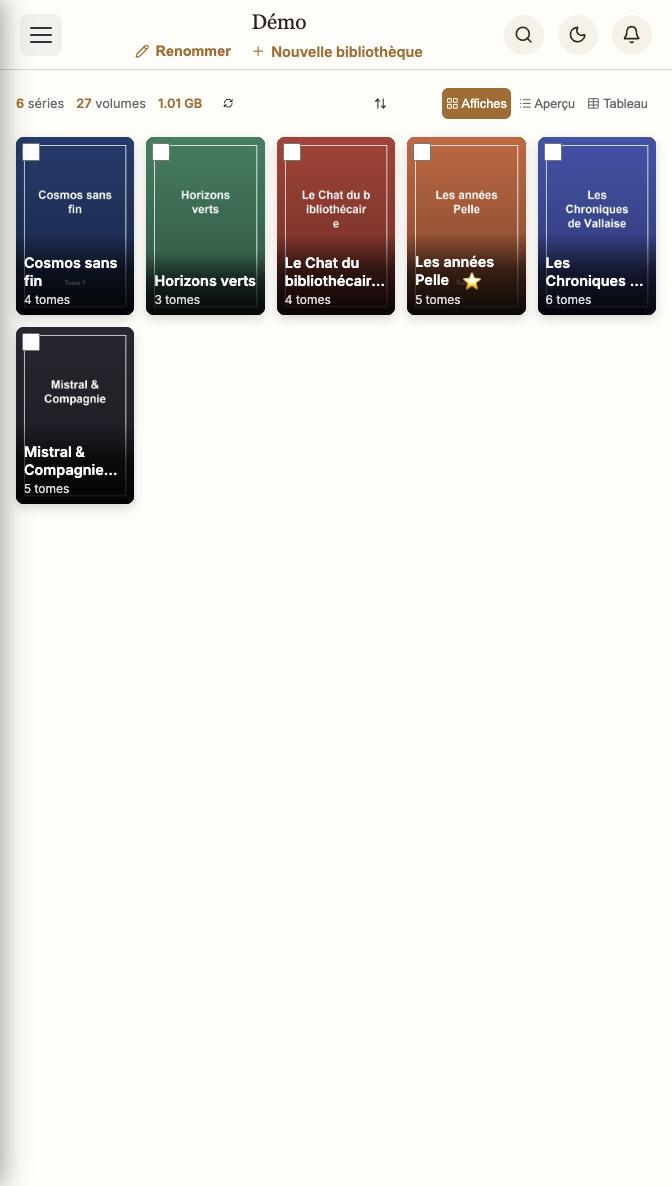
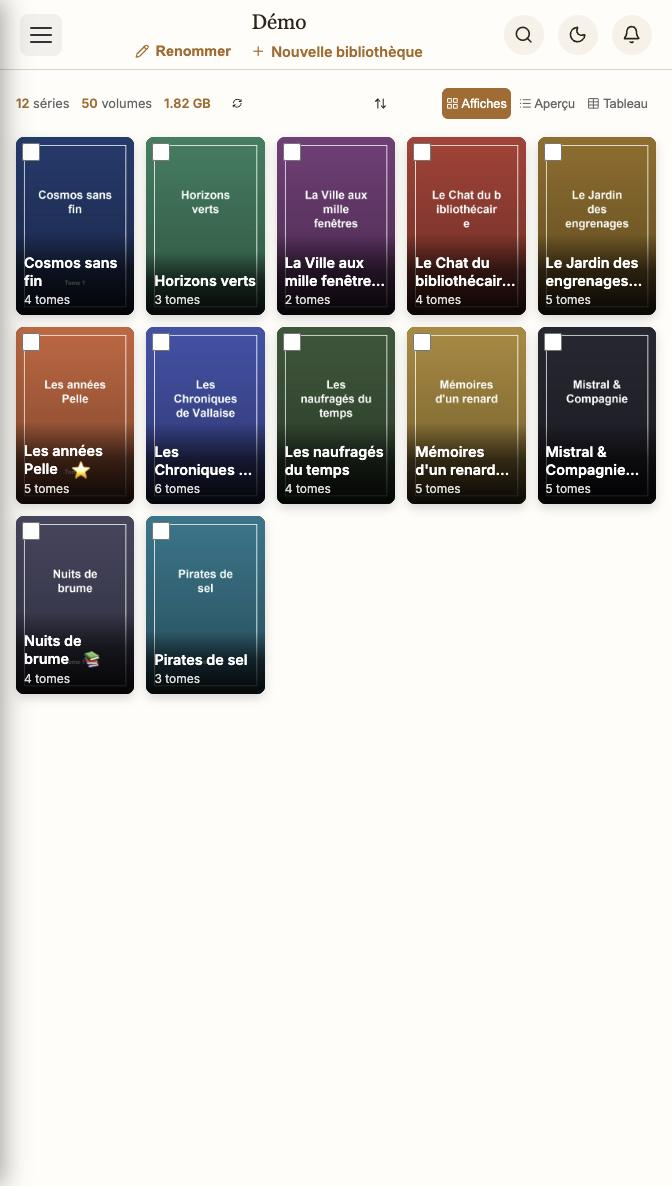
Site : bibliothèque de démonstration à douze séries (couvertures et descriptions inventées)

Changed region(s): [[0.0, 0.0936, 1.0, 0.5927], [0.0312, 0.0624, 0.3125, 0.0936]]

diff --git a/index.html b/index.html
@@ -124,7 +124,7 @@
   <div class="carousel" aria-label="Captures d'écran de Bullarr">
     <div class="slides">
       <figure class="slide active">
-        <img src="demo-bibliotheque.jpg" alt="Bibliothèque de démonstration avec six séries">
+        <img src="demo-bibliotheque.jpg" alt="Bibliothèque de démonstration avec douze séries (données inventées)">
         <figcaption>Bibliothèque : séries, nombre de tomes, liste « favori ». Données de démonstration inventées.</figcaption>
       </figure>
       <figure class="slide">
